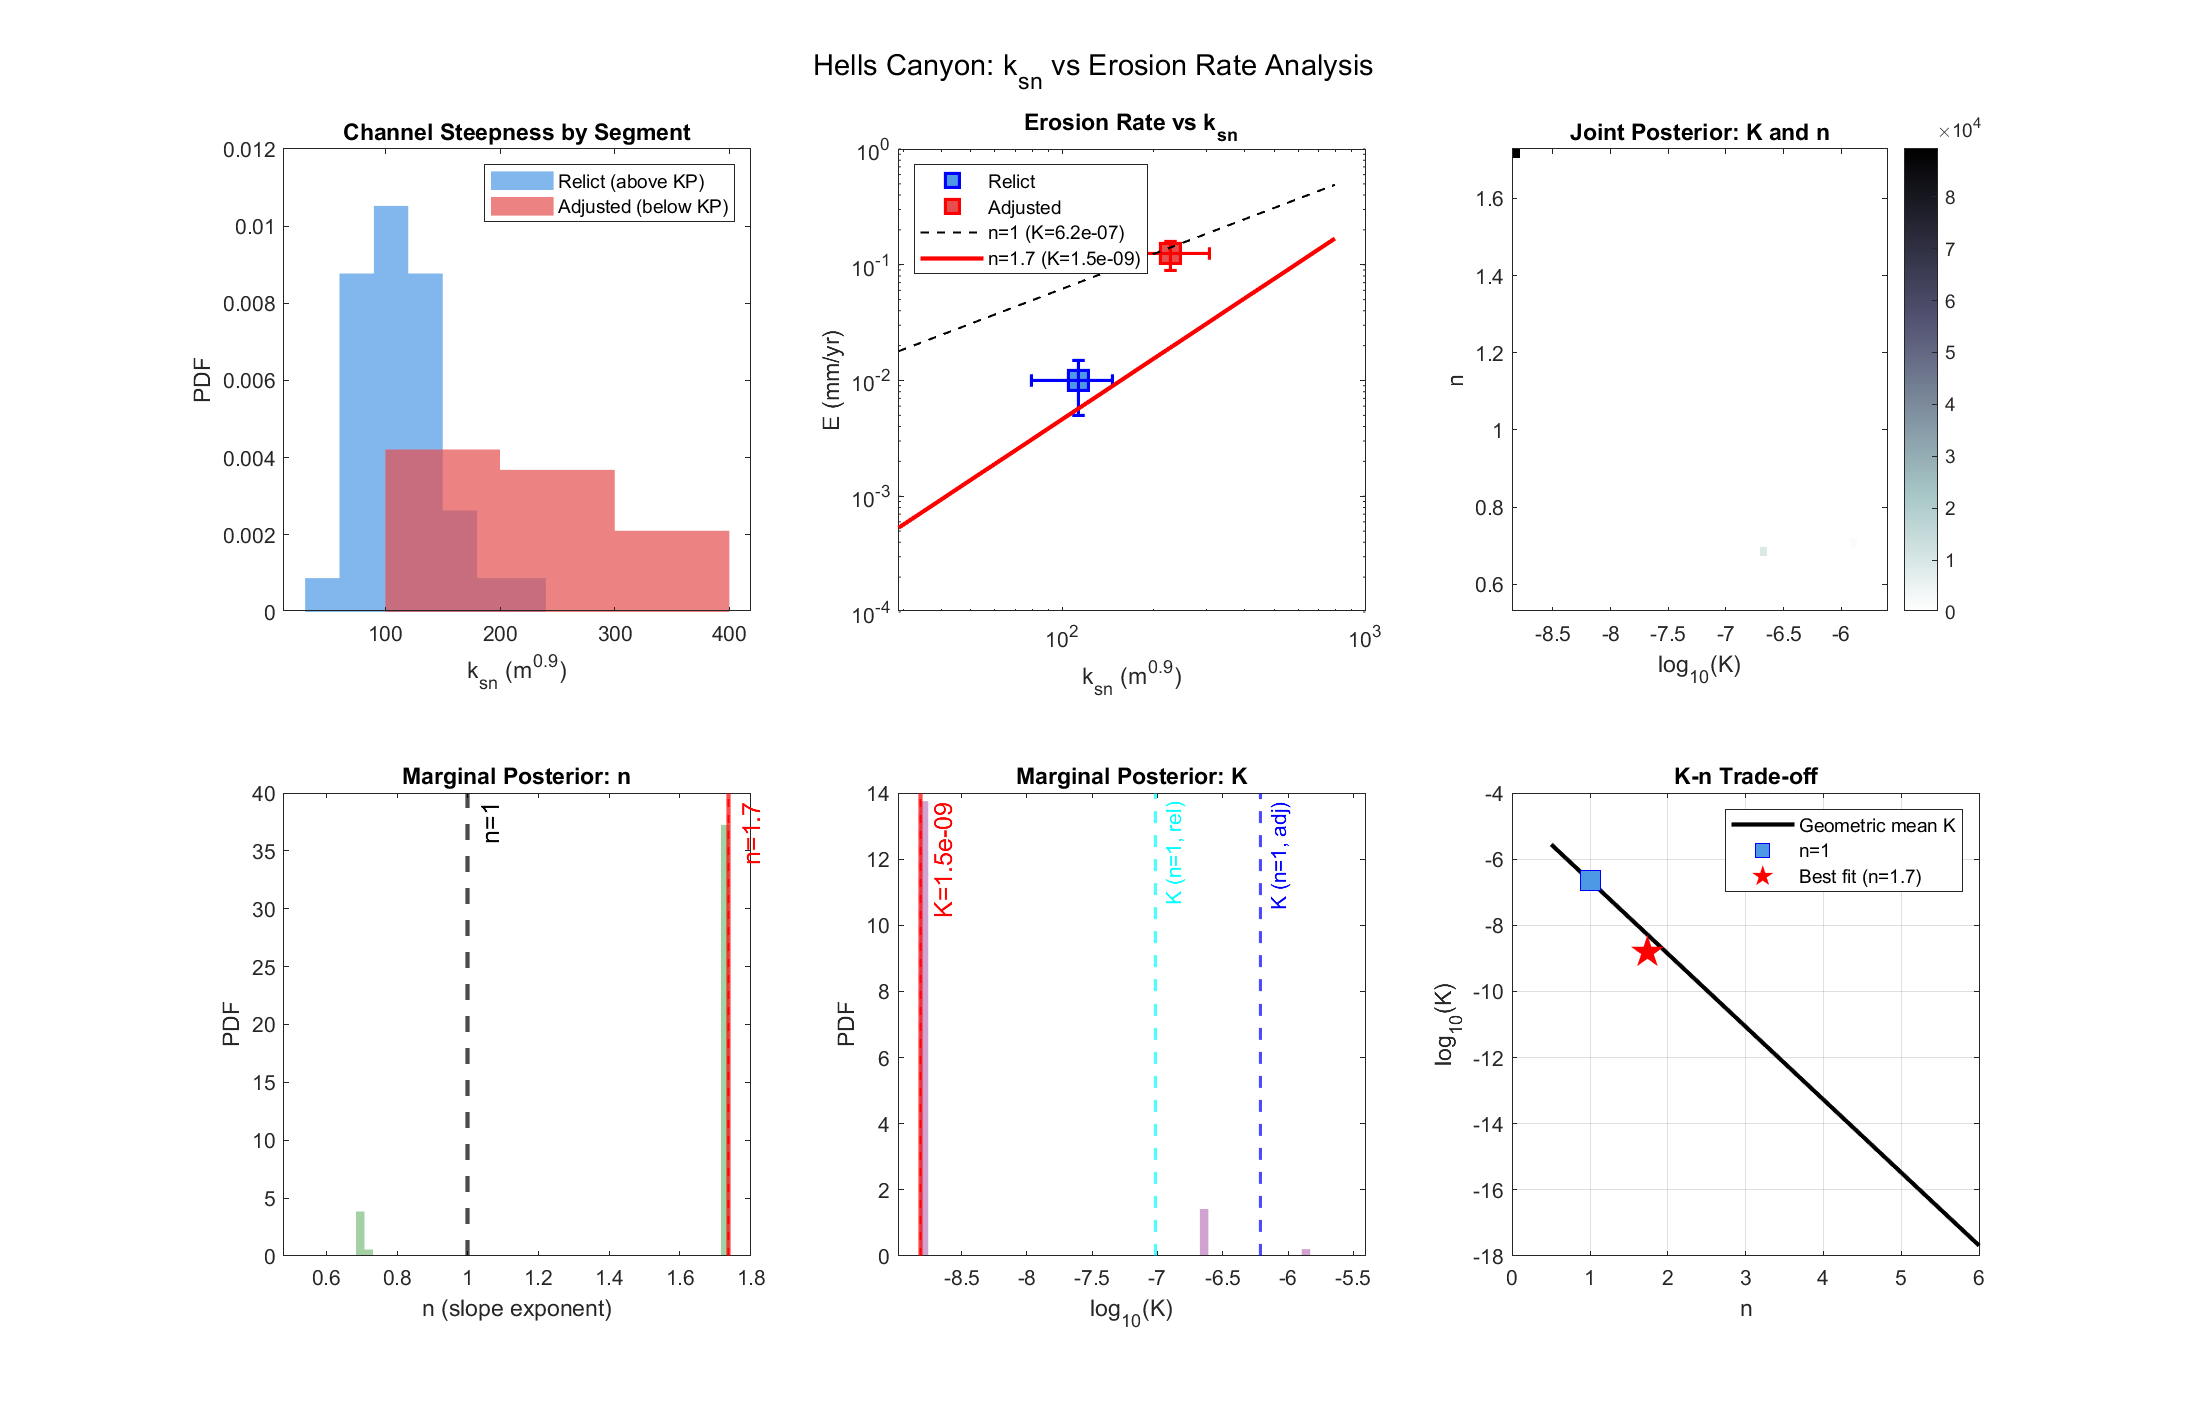
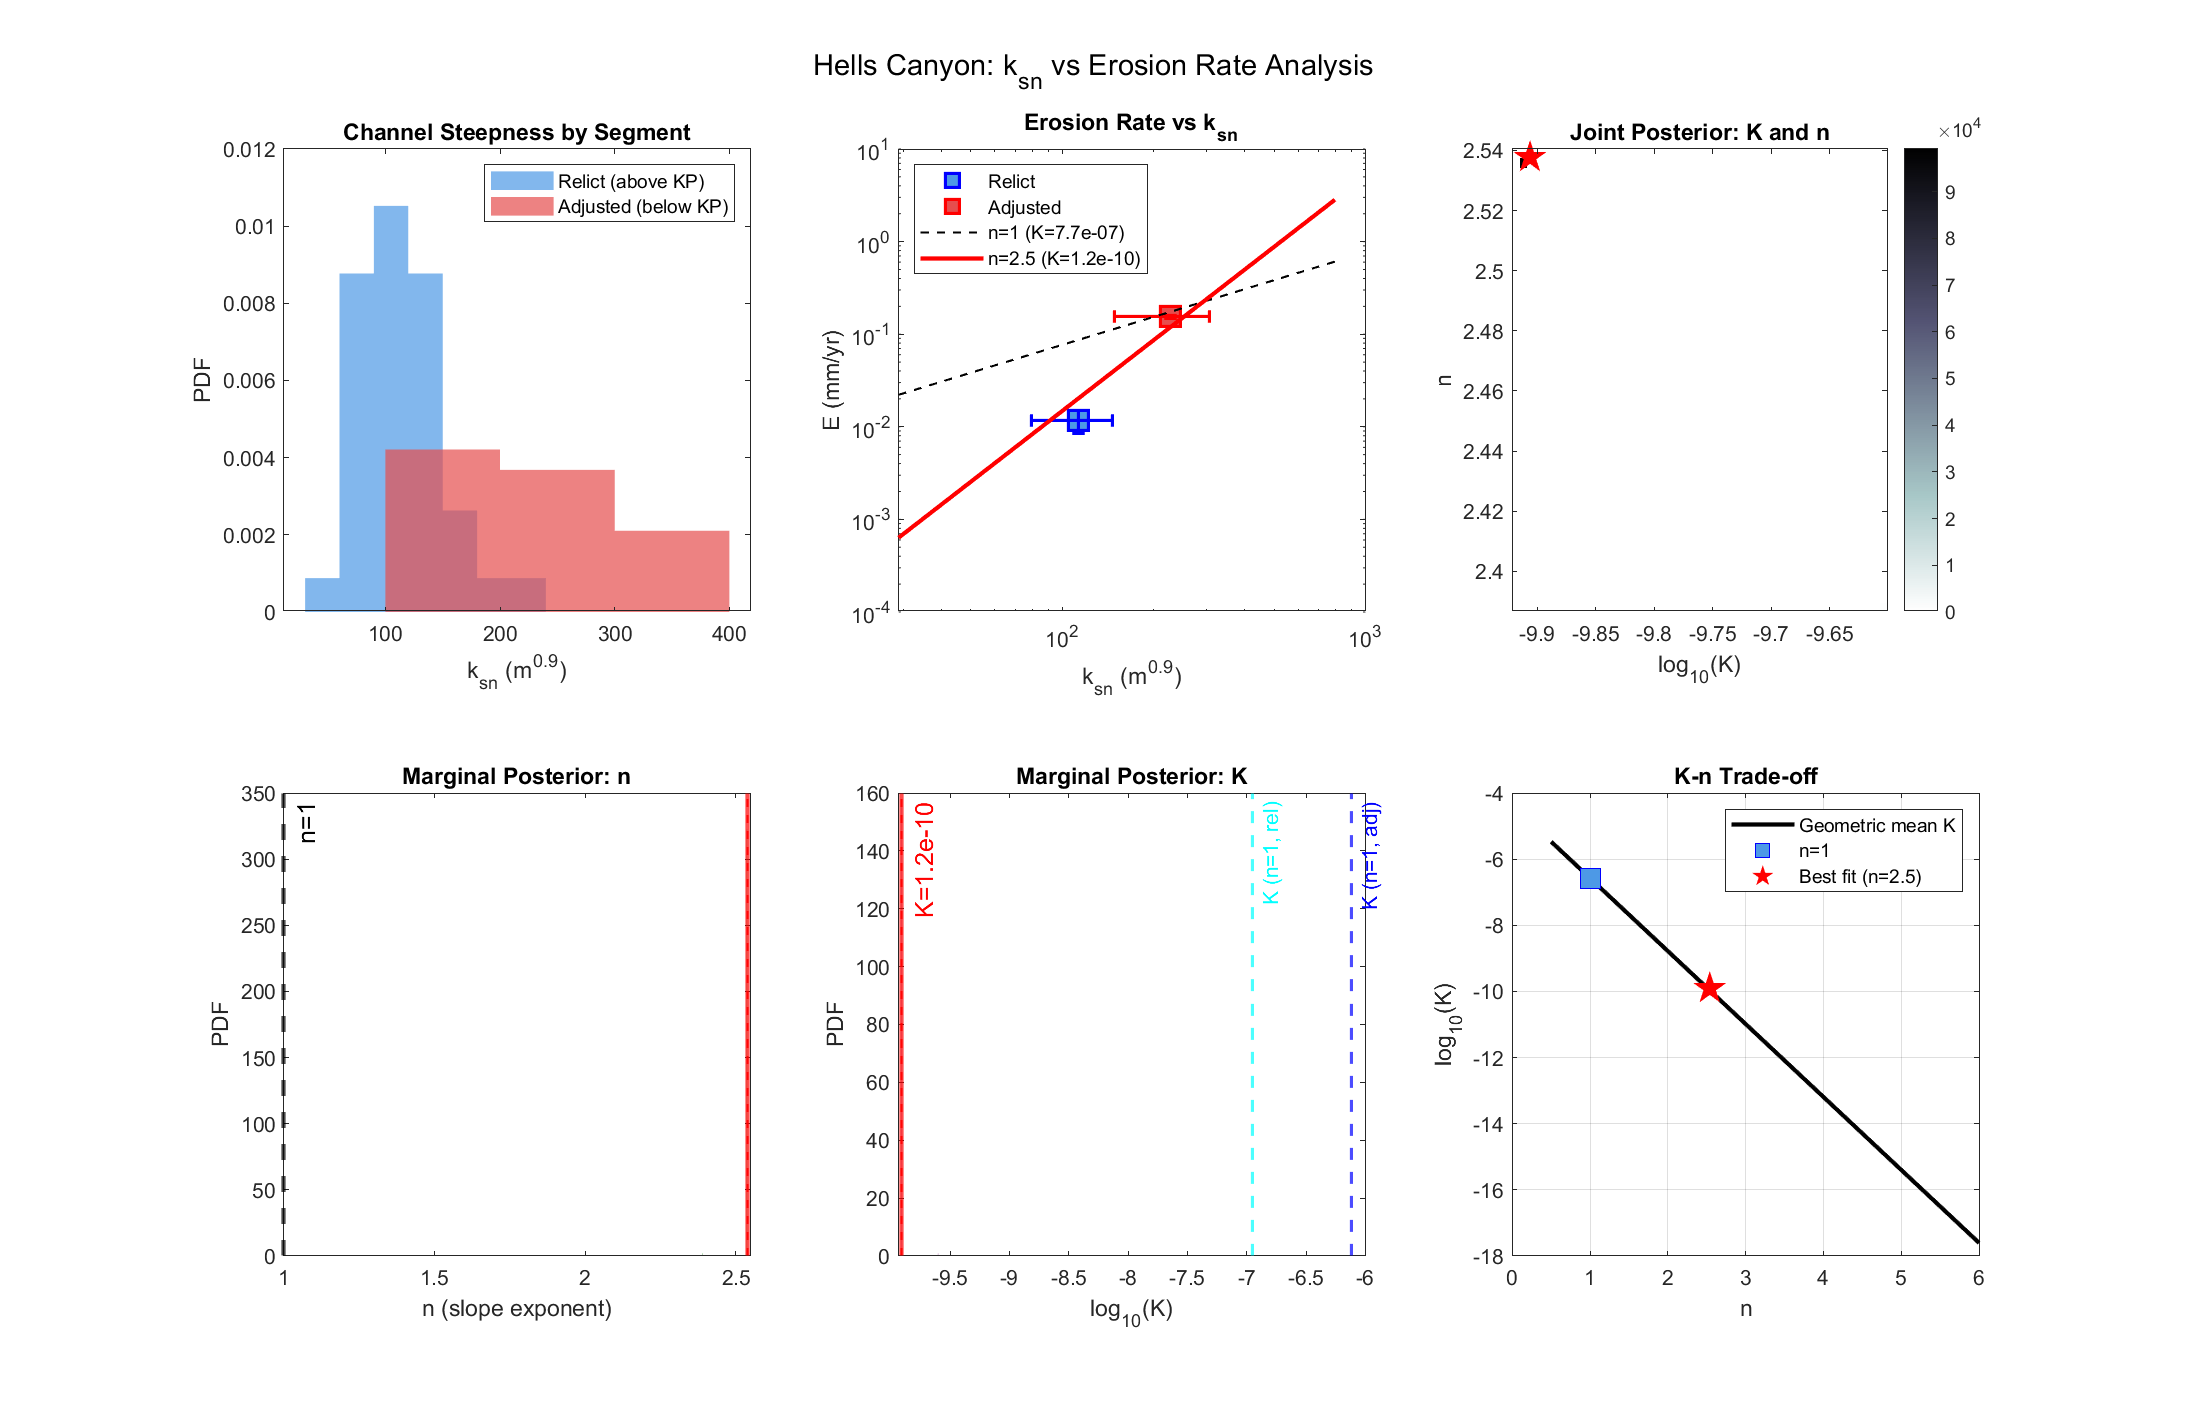
Add MCM Diagnostics scripts; widen n and m/n prior bounds

diff --git a/HellsCanyon_BayesianInversion/main_hc_bayes_inversion.m b/HellsCanyon_BayesianInversion/main_hc_bayes_inversion.m
@@ -48,6 +48,10 @@
 
 clear; close all; clc;
 
+addpath(genpath("C:\Users\mmorriss\Documents\matlab\topotoolbox-master"))
+addpath(genpath("C:\Users\mmorriss\Documents\matlab\Topographic-Analysis-Kit-master"))
+addpath(genpath("C:\Users\mmorriss\Documents\matlab\TT_shortcourse_6august2016"))
+addpath(genpath("C:\Users\mmorriss\Documents\matlab\knickdisttest_morriss"))
 %% ========================================================================
 %  SECTION 1: USER CONFIGURATION
 %  ========================================================================
@@ -82,8 +86,8 @@ cave_height_err = cave_data(:,4);
 use_informative_priors = true;
 
 % --- MCMC Settings ---
-n_burnin   = 1e4;    % Burn-in iterations (increase for production)
-n_postburn = 1e5;    % Post-burn-in iterations (increase for production)
+n_burnin   = 5e3;    % Burn-in iterations (increase for production)
+n_postburn = 5e4;    % Post-burn-in iterations (increase for production)
 dt_forward = 25000;  % Forward model time step (years)
 
 % --- Adaptive proposal tuning (burn-in ONLY) ---
@@ -115,9 +119,9 @@ target_accept = 0.30;   % target acceptance rate (optimal ~0.23-0.44)
 prior_bounds = [
     1e-6,   5e-4;     % U_pre:     ~0.001 to 0.5 mm/yr
     1e-5,   5e-3;     % U_post:    ~0.01 to 5 mm/yr
-    -9,     -4;       % log10(K):  wide range
-    0.5,    3;        % n:         tightened to [0.5, 3] (physical range)
-    0.3,    0.7;      % m/n:       typical concavity range
+    -15,     -4;       % log10(K):  wide range
+    0.5,    8;        % n:         tightened to [0.5, 3] (physical range)
+    0.3,    0.8;      % m/n:       typical concavity range
     0.5e6,  5e6;      % t_capture: 0.5 to 5 Ma
 ];
 
@@ -140,7 +144,7 @@ cave_prior.U_post_std      = 3.5e-5;   % +/- 0.035 mm/yr
 % Gaussian prior on n to break the K-n trade-off.
 % Most landscape evolution studies find n in [0.5, 2]; n=1 is the standard.
 cave_prior.n_mean          = 1.0;
-cave_prior.n_std           = 0.5;
+cave_prior.n_std           = 1.0;
 
 % --- Starting values ---
 params_init = [

diff --git a/HellsCanyon_BayesianInversion/posterior_predictive.m b/HellsCanyon_BayesianInversion/posterior_predictive.m
@@ -1,0 +1,51 @@
+%% posterior_predictive.m
+load('params_HC_capture.mat');                 % params_post
+sd = load('hc_stream_data.mat'); sd = sd.stream_data;
+S = sd.S;  Sz = double(sd.Sz(:));  S_DA = double(sd.S_DA(:));
+Sz_norm = Sz - min(Sz);
+dt_forward = 25000;
+
+fwd = @(p) hc_river_forward_model(S, S_DA, [p(1) p(2)], p(6), ...
+                                  10^p(3), p(5)*p(4), p(4), dt_forward);
+
+% --- median-parameter model ---
+p_med = median(params_post, 1);
+Z_med = fwd(p_med);
+
+% --- ensemble, thinned evenly across the chain (not random: keeps spread) ---
+n_draw = 100;
+idx  = round(linspace(1, size(params_post,1), n_draw));
+Zens = zeros(numel(Sz_norm), n_draw);
+fprintf('Running %d forward models', n_draw);
+for k = 1:n_draw
+    Zens(:,k) = fwd(params_post(idx(k),:));
+    if mod(k,10)==0, fprintf('.'); end
+end
+fprintf(' done\n');
+
+% --- trunk nodes, ordered outlet -> head ---
+St = trunk(klargestconncomps(S,1));
+[~, ti] = ismember(St.IXgrid, S.IXgrid);   ti = ti(ti>0);
+[xk, ord] = sort(S.distance(ti), 'ascend');
+tn = ti(ord);  xk = xk/1e3;
+
+band = prctile(Zens(tn,:), [2.5 16 50 84 97.5], 2);
+
+figure('Position',[100 100 950 620]);
+fill([xk; flipud(xk)], [band(:,1); flipud(band(:,5))], [0.88 0.88 0.96], ...
+     'EdgeColor','none'); hold on
+fill([xk; flipud(xk)], [band(:,2); flipud(band(:,4))], [0.72 0.72 0.90], ...
+     'EdgeColor','none');
+plot(xk, Sz_norm(tn), 'b-', 'LineWidth', 2);
+plot(xk, Z_med(tn),   'r-', 'LineWidth', 2);
+xlabel('Distance from outlet (km)'); ylabel('Elevation (m)');
+legend('95% predictive','68% predictive','Observed trunk','Median model', ...
+       'Location','northwest');
+title('Trunk profile: posterior predictive', 'Interpreter','none');
+grid on
+
+% --- quantify: median vs MAP ---
+load('mMAP_HC_capture.mat','Z_mod_map');
+fprintf('\nRMS residual, all nodes:\n');
+fprintf('  median-parameter model : %7.1f m\n', sqrt(mean((Sz_norm-Z_med).^2)));
+fprintf('  MAP model              : %7.1f m\n', sqrt(mean((Sz_norm-Z_mod_map).^2)));

diff --git a/HellsCanyon_BayesianInversion/dt_sensitivity.m b/HellsCanyon_BayesianInversion/dt_sensitivity.m
@@ -1,0 +1,23 @@
+%% dt_sensitivity.m
+load('params_HC_capture.mat');
+sd = load('hc_stream_data.mat'); sd = sd.stream_data;
+S = sd.S; S_DA = double(sd.S_DA(:));
+
+p   = median(params_post,1);
+dts = [6250 12500 25000 50000 100000];
+Zs  = zeros(numel(S_DA), numel(dts));  tt = zeros(size(dts));
+
+for k = 1:numel(dts)
+    tic;
+    Zs(:,k) = hc_river_forward_model(S, S_DA, [p(1) p(2)], p(6), ...
+                                     10^p(3), p(5)*p(4), p(4), dts(k));
+    tt(k) = toc;
+end
+
+ref = Zs(:,1);   % finest dt = reference truth
+fprintf('\n%8s %9s %14s %14s\n','dt (yr)','time (s)','RMS vs ref','max vs ref');
+fprintf('%s\n', repmat('-',1,50));
+for k = 1:numel(dts)
+    fprintf('%8d %9.2f %12.2f m %12.2f m\n', dts(k), tt(k), ...
+        sqrt(mean((Zs(:,k)-ref).^2)), max(abs(Zs(:,k)-ref)));
+end
